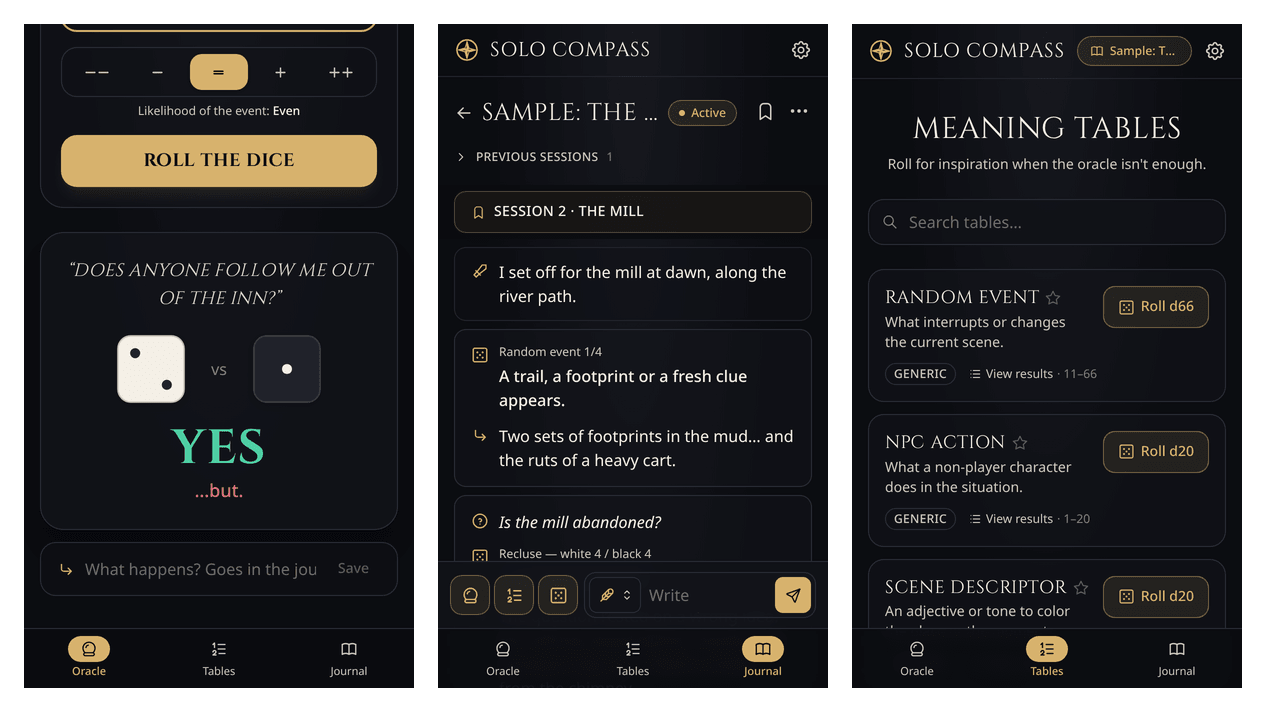
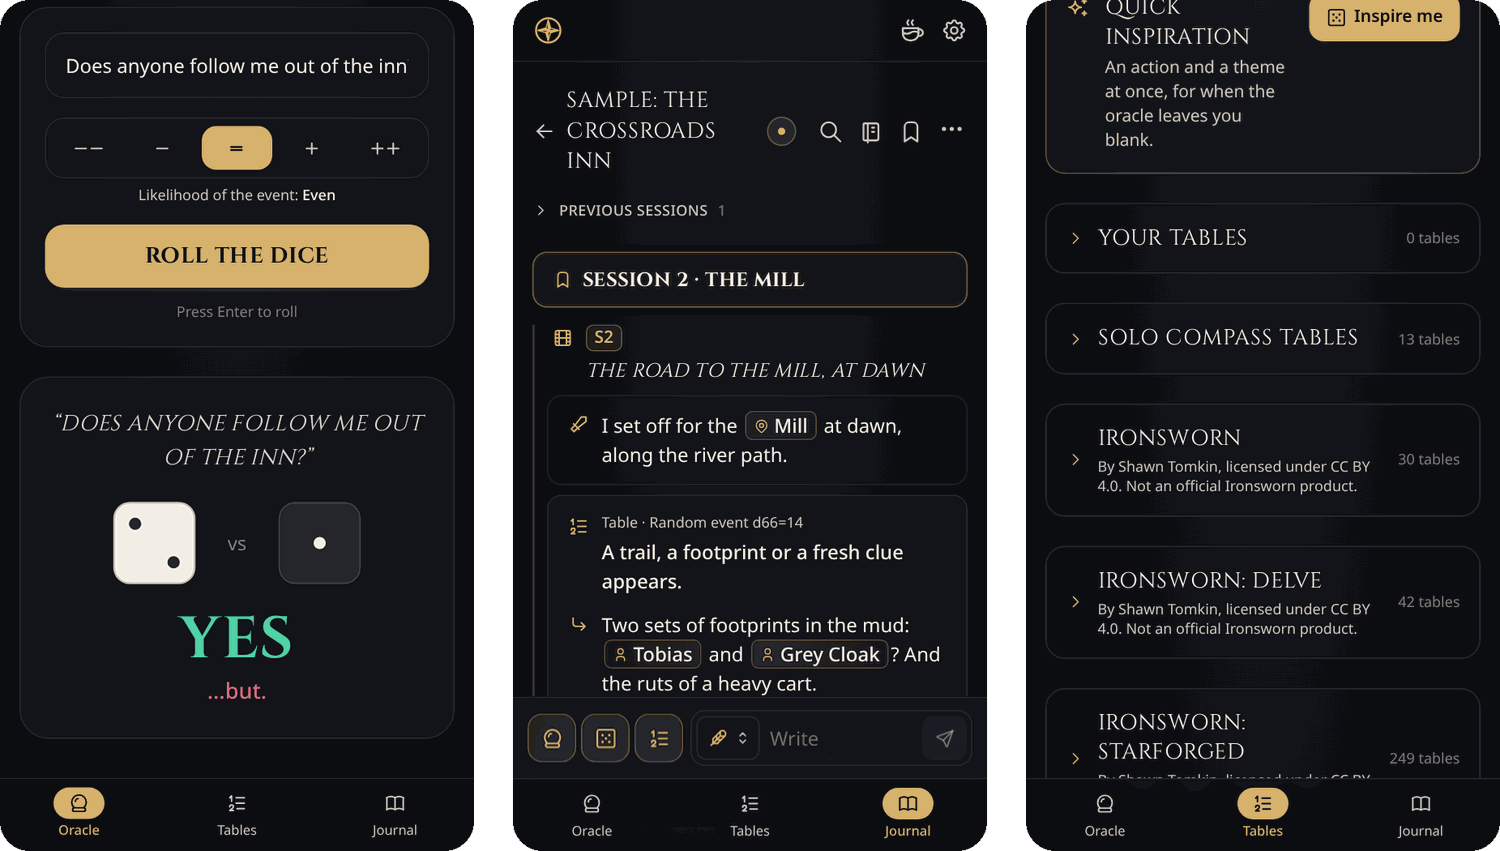
Refresh the README and its screenshots, and fix the Loner link
The README said comments and commits were in Spanish, missed the smoke
test in the deploy and the browser test commands, and linked Loner to
a page that no longer exists (so did the app's credits). It now warns
iPhone players about Safari clearing site data, mentions scenes, and
shows new screenshots taken from the real app with the sample
adventure.

Claude-Session: https://claude.ai/code/session_01QCouSA6tD7Hk5jUvJQ81HF

Changed region(s): [[0.0, 0.0, 1.0, 1.0], [0.0616, 0.6798, 0.2464, 0.8343]]

diff --git a/src/lib/tableData/loner.ts b/src/lib/tableData/loner.ts
@@ -1,7 +1,7 @@
 /**
  * Oracle tables from Loner v2.3, by Roberto Bisceglie, licensed under
  * CC BY-SA 4.0 (https://creativecommons.org/licenses/by-sa/4.0/):
- * https://zeruhur.itch.io/loner-2nd-edition. English text from the
+ * https://zeruhur.itch.io/loner. English text from the
  * game's open source (the Keeper edition, farirpgs/keeper). The Spanish
  * translation is Solo Compass's own and, as an adaptation, is shared
  * under the same CC BY-SA 4.0 licence.

diff --git a/src/lib/oracles.ts b/src/lib/oracles.ts
@@ -38,7 +38,7 @@ export const ORACLES: OracleInfo[] = [
     author: "Roberto Bisceglie",
     license: "CC BY-SA 4.0",
     licenseUrl: CC_BY_SA,
-    url: "https://zeruhur.itch.io/loner-2nd-edition",
+    url: "https://zeruhur.itch.io/loner",
     attribution:
       "Loner v2.3 (CC) 2023 Roberto Bisceglie, licensed under the Creative Commons Attribution-ShareAlike 4.0 International License.",
   },

diff --git a/src/lib/tableGames.ts b/src/lib/tableGames.ts
@@ -105,7 +105,7 @@ const KNAVE_GAME: GameRef = {
   tag: "Knave",
 };
 
-export const LONER_URL = "https://zeruhur.itch.io/loner-2nd-edition";
+export const LONER_URL = "https://zeruhur.itch.io/loner";
 
 const LONER_GAME: GameRef = {
   name: "Loner",

diff --git a/README.md b/README.md
@@ -11,7 +11,7 @@
 
 <picture>
   <source media="(prefers-color-scheme: dark)" srcset="docs/screenshots/workspace-dark.png">
-  <img src="docs/screenshots/workspace-light.png" alt="An adventure open on desktop: a session index on the left, the journal with actions, oracle questions, rolls and consequences in the middle, and the oracle, tables and dice on the right">
+  <img src="docs/screenshots/workspace-light.png" alt="An adventure open on desktop: sessions with their scenes, pinned notes and the cast on the left, the journal with a scene, actions, a table roll, oracle questions and consequences in the middle, and the oracle, dice and tables on the right">
 </picture>
 
 ## Why Solo Compass
@@ -36,6 +36,8 @@ To use it like an app (its own icon, full screen, offline), install it from the 
 - **Android / Chrome / Edge:** open the browser menu and choose *Install app* (or *Add to Home screen*).
 - **iPhone / iPad (Safari):** tap *Share*, then *Add to Home Screen*.
 
+On iPhone and iPad this matters more than elsewhere: Safari deletes a site's data after a week of use without visiting it, while an installed app keeps it. The installed app also starts empty, because iOS keeps its storage apart from Safari's, so if you've already played in Safari, carry your games over with a backup (see [Your data](#your-data)). The journal reminds you of this when you open it from Safari.
+
 When a new version is out, the app shows an **Update** banner. It never reloads on its own, so nothing you're halfway through typing is lost.
 
 New to solo play? Open **Journal**. While it's empty, it offers a short **sample adventure**, "The Crossroads Inn": two finished sessions that show what a game looks like in the log. You can keep playing it or delete it from its `⋯` menu.
@@ -46,7 +48,7 @@ New to solo play? Open **Journal**. While it's empty, it offers a short **sample
 
 <picture>
   <source media="(prefers-color-scheme: dark)" srcset="docs/screenshots/oracle-dark.png">
-  <img src="docs/screenshots/oracle-light.png" alt="The oracle screen: the question 'Is the miller hiding something about the box?' with Likely selected, two white dice against one black die, and the answer No">
+  <img src="docs/screenshots/oracle-light.png" alt="The oracle screen with Recluse: the question 'Is the miller hiding something about the box?' with Likely selected, two white dice against one black die, and the answer Yes, and">
 </picture>
 
 Type a yes/no question, pick how likely it is, and roll. The **Recluse** rules (by Graven Utterance, [CC BY 4.0](https://creativecommons.org/licenses/by/4.0/)) work like this:
@@ -79,7 +81,7 @@ Roll for inspiration when a yes or no isn't enough. Besides its own generic tabl
 
 ### Journal
 
-Create adventures, split them into sessions, and log actions, rolls, consequences and notes; questions come in from the oracle. A question, its roll and the consequences that follow are grouped into one card. Any entry or session title can be edited later. Deleting an entry can be undone straight away.
+Create adventures, split them into sessions and scenes, and log actions, rolls, consequences and notes; questions come in from the oracle. A question, its roll and the consequences that follow are grouped into one card. Any entry or session title can be edited later. Deleting an entry can be undone straight away.
 
 - Only one adventure is **active** at a time. Rolls go there, and the chip in the header shows which one it is from every screen.
 - Inside an adventure, the **game table** gives you the oracle, the tables and a dice roller: d4 to d20, d%, 4dF for Fate/Fudge, advantage and disadvantage, and typed formulas such as `2d6+3`, `4d6kh3` or `4d6dl1` (keep the highest three), `5d6>=5` (count successes, `f<3` to subtract failures), `3d6!` and `d6!!` (exploding and compounding) or `4d6dl1 // Strength` (with a description). This lets you log rolls from your own system without leaving the app.
@@ -93,7 +95,7 @@ Create adventures, split them into sessions, and log actions, rolls, consequence
 - **Export** an adventure as Lonelog Markdown or as a self-contained **web page** in the current theme (to read, share or print), or **import** a `.md` journal. The pinned notes travel in the file's front matter. The import accepts any text: lines it doesn't recognise become notes, so nothing is lost.
 
 <p align="center">
-  <img src="docs/screenshots/phones.png" alt="Three phone screens: an oracle answer of Yes, but; an adventure journal with the one-row composer; and the meaning tables list" width="860">
+  <img src="docs/screenshots/phones.png" alt="Three phone screens: an oracle answer of Yes, but; an adventure journal with a scene and the one-row composer; and the meaning tables, one folding block per game" width="860">
 </p>
 
 ### Themes and language
@@ -128,6 +130,8 @@ There are three ways to keep your data safe, all in **Settings**:
 - **Storage protection:** asks the browser not to clear the app's data when space runs low. It's only requested when you press the button, because some browsers show their own permission prompt.
 - **Backup reminder:** a small dot appears on the Settings button only when you've written 10 or more entries since your last backup and it's been at least 14 days. There are no pop-ups.
 
+On iPhone and iPad, install the app rather than playing in Safari, which clears a site's data after a week of use without visiting it (see [Getting started](#getting-started)).
+
 Clearing the site's data in your browser deletes everything, so export a backup first.
 
 ## Development
@@ -141,21 +145,25 @@ npm install
 npm run dev       # dev server at http://localhost:5173/solo-compass/
 ```
 
+The browser tests need Playwright's Chromium once: `npx playwright install chromium`.
+
 | Command | What it does |
 |---|---|
 | `npm run dev` | Vite dev server |
 | `npm run build` | Type-check (`tsc -b`) and build to `dist/` |
 | `npm run preview` | Serve the production build |
-| `npm test` | Vitest unit tests for `src/lib` (oracles and their odds, Lonelog import/export, journal grouping, tables, sample adventure, backup reminder) |
+| `npm test` | Vitest unit tests for `src/lib` (oracles and their odds, Lonelog import/export, tags, dice formulas, journal grouping, tables, sample adventure, backup) |
+| `npm run test:e2e` | Builds, then plays the main path (oracle, an adventure, an entry and a scene, a table roll, a reload) with Playwright on a phone and a desktop viewport |
+| `npm run test:perf` | Restores years of synthetic play (11,000 entries, 10,000 rolls) and times the main screens on a phone with a slowed-down CPU. Not part of the deploy |
 | `npm run lint` | oxlint |
 
 The stack is React 19, TypeScript, Vite, Tailwind CSS v4, React Router (`HashRouter`, so it works on GitHub Pages without server rewrites), `idb-keyval` for IndexedDB, `vite-plugin-pwa`, and [Tabler Icons](https://tabler.io/icons).
 
-The UI text lives in `src/lib/i18n/locales/{es,en}.ts`, which share one typed `Dictionary`, so TypeScript flags a missing key. The code comments and commit messages are in Spanish. [`CLAUDE.md`](CLAUDE.md) describes the architecture in more depth: state, storage, theming and responsive layout.
+The UI text lives in `src/lib/i18n/locales/{es,en}.ts`, which share one typed `Dictionary`, so TypeScript flags a missing key. The UI is Spanish first; the code comments, test names and commit messages are in English. [`CLAUDE.md`](CLAUDE.md) describes the architecture in more depth: state, storage, theming and responsive layout.
 
 ### Deploying
 
-Every push to `main` runs [`.github/workflows/deploy.yml`](.github/workflows/deploy.yml). It installs dependencies, runs the tests, builds the app and publishes `dist/` to GitHub Pages; a failing test stops the deploy. To set this up on a fork:
+Every push to `main` runs [`.github/workflows/deploy.yml`](.github/workflows/deploy.yml). It installs dependencies, runs the unit tests, builds the app, runs the Playwright smoke test against the build and publishes `dist/` to GitHub Pages; any failure stops the deploy. To set this up on a fork:
 
 1. In **Settings → Pages**, set **Source** to **GitHub Actions**.
 2. If your repository isn't called `solo-compass`, change `base` in `vite.config.ts` to match.
@@ -171,7 +179,7 @@ Every push to `main` runs [`.github/workflows/deploy.yml`](.github/workflows/dep
 - Solo Compass's own meaning tables are original and written for this app.
 - **Ironsworn, Delve and Starforged** oracle tables: this work is based on Ironsworn, Ironsworn: Delve and Ironsworn: Starforged, created by Shawn Tomkin, and licensed for our use under the [Creative Commons Attribution 4.0 International license](https://creativecommons.org/licenses/by/4.0/). Not an official Tomkin Press or Ironsworn product.
 - **Starsmith: Expanded Oracles** by Eric Bright, [CC BY 4.0](https://creativecommons.org/licenses/by/4.0/).
-- **Loner** v2.3 by Roberto Bisceglie, [CC BY-SA 4.0](https://creativecommons.org/licenses/by-sa/4.0/): <https://zeruhur.itch.io/loner-2nd-edition>
+- **Loner** v2.3 by Roberto Bisceglie, [CC BY-SA 4.0](https://creativecommons.org/licenses/by-sa/4.0/): <https://zeruhur.itch.io/loner>
 - **Knave** by Ben Milton, [CC BY 4.0](https://creativecommons.org/licenses/by/4.0/): <https://questingbeast.itch.io/knave>
 - **Cairn** (second edition) by Yochai Gal, [CC BY-SA 4.0](https://creativecommons.org/licenses/by-sa/4.0/): <https://cairnrpg.com>. English text from its [open source](https://github.com/yochaigal/cairn).
 - This work includes material taken from the **Lazy GM's Resource Document** by Michael E. Shea of SlyFlourish.com, available under the [Creative Commons Attribution 4.0 International License](https://creativecommons.org/licenses/by/4.0/). It also includes material from the System Reference Document 5.1 ("SRD 5.1") by Wizards of the Coast LLC, licensed under the same license.
